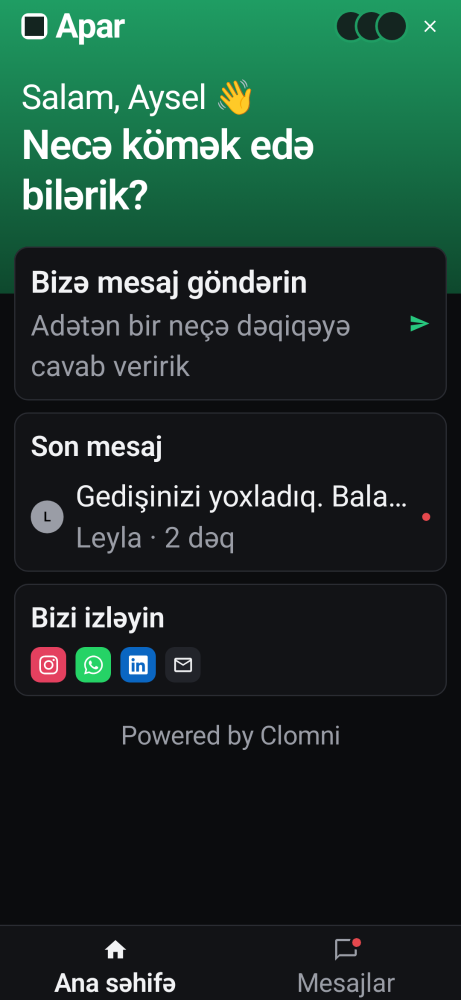
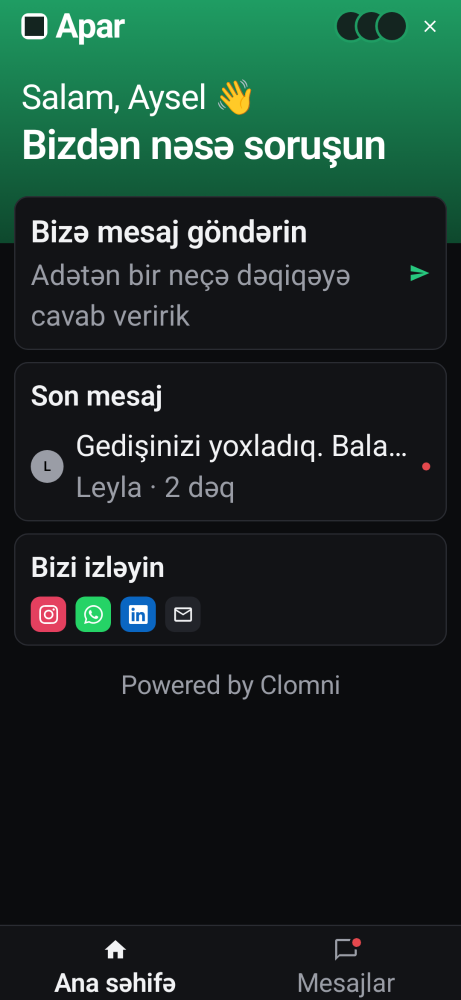
CM-077: Android tests on protocol fixtures 42/43; the contract's JSON goes
Fixture.aparConfig is now the server's fixture 42, as on iOS, and
ConfigV2Fixture (the contract's example copied by hand) is deleted.
Expectations follow the server's data: its own picture URLs, no bot
picture (the logo stands in), the panel's "Bizdən nəsə soruşun"; the
Russian empty list is the SDK's own text, since 42's strings are the
Azerbaijani set. The snapshot test draws 42's logo and team pictures;
references and docs copies re-recorded.

Changed region(s): [[0.0, 0.124, 1.0, 0.744], [0.9111, 0.465, 0.9414, 0.527], [0.8807, 0.31, 0.9414, 0.341]]

diff --git a/android/messenger/src/test/kotlin/ai/clomni/messenger/protocol/MessengerConfigTest.kt b/android/messenger/src/test/kotlin/ai/clomni/messenger/protocol/MessengerConfigTest.kt
@@ -1,6 +1,5 @@
 package ai.clomni.messenger.protocol
 
-import ai.clomni.messenger.presentation.APAR_CONFIG_V2
 import org.junit.Assert.assertEquals
 import org.junit.Assert.assertFalse
 import org.junit.Assert.assertNull
@@ -13,14 +12,17 @@ class MessengerConfigTest {
 
     private fun config(json: String): MessengerConfig = protocol.json.parseConfig(json)!!
 
+    private val apar = ProtocolFiles.read("fixtures/42-config-apar.json")
+
+    /** The server's config v2 for Apar (protocol fixture 42), its colours taken as sent. */
     @Test
-    fun theContractsExample() {
-        val config = config(APAR_CONFIG_V2)
+    fun theServersAparConfig() {
+        val config = config(apar)
         assertEquals(12, config.version)
         assertEquals(
             MessengerConfig.Brand(
                 name = "Apar",
-                logoUrl = "https://app.clomni.ai/a/apar.png",
+                logoUrl = "https://app.clomni.ai/v1/images/img_Lq3T8vXw2KpA9mZc4RbN",
                 logoDarkUrl = null,
                 primaryColor = "#1F9D63",
                 headerStyle = MessengerConfig.HeaderStyle.GRADIENT,
@@ -36,14 +38,14 @@ class MessengerConfigTest {
         assertEquals(
             MessengerConfig.Team(
                 show = true,
-                avatars = listOf("https://app.clomni.ai/a/leyla.png", "https://app.clomni.ai/a/rauf.png", "https://app.clomni.ai/a/nigar.png"),
+                avatars = listOf("leyla", "rauf", "nigar").map { "https://my.clomni.co/rails/active_storage/representations/redirect/$it.png" },
                 replyTime = "Adətən bir neçə dəqiqəyə cavab veririk",
                 replyTimeOffline = "Hazırda iş saatı deyil, sizə səhər cavab verəcəyik",
                 officeHours = MessengerConfig.OfficeHours("Asia/Baku", openNow = true),
             ),
             config.team,
         )
-        assertEquals(MessengerConfig.Bot("Clomni", "https://app.clomni.ai/a/bot.png"), config.bot)
+        assertEquals("no bot picture: the SDK shows the logo", MessengerConfig.Bot("Clomni", null), config.bot)
         assertEquals(
             listOf(MessengerConfig.HomeCard.SEND, MessengerConfig.HomeCard.RECENT, MessengerConfig.HomeCard.CHANNELS),
             config.home.cards,
@@ -58,6 +60,7 @@ class MessengerConfigTest {
         )
         assertEquals(MessengerConfig.Composer(attachments = true, emoji = true), config.composer)
         assertEquals("Salam, {first_name} 👋", config.strings["greeting_line1"])
+        assertEquals("the panel's own", "Bizdən nəsə soruşun", config.strings["greeting_line2"])
         assertEquals(MessengerConfig.Limits(10, 25, 4000), config.limits)
         assertTrue(config.poweredBy)
         assertTrue(protocol.warnings.isEmpty())
@@ -102,11 +105,11 @@ class MessengerConfigTest {
         val missing = config("""{"brand":{"colors":{"light":{"primary":"#1F9D63"}}}}""")
         assertNull(missing.brand.colors)
         assertEquals("brand.colors incomplete; the SDK derives the colours", protocol.warnings.last())
-        val notHex = APAR_CONFIG_V2.replace("\"#0E482D\"", "\"dark green\"")
+        val notHex = apar.replace("\"#0E482D\"", "\"dark green\"")
         assertNull(config(notHex).brand.colors)
         assertNull(config("""{"brand":{}}""").brand.colors)
         // header_text came later: a server without it still sends usable colours, and the SDK works the text out.
-        val withoutText = config(APAR_CONFIG_V2.replace(", \"header_text\": \"#FFFFFF\"", ""))
+        val withoutText = config(apar.replace(Regex(""",\s*"header_text": "#FFFFFF""""), ""))
         assertEquals("#1F9D63", withoutText.brand.colors?.light?.headerFrom)
         assertNull(withoutText.brand.colors?.light?.headerText)
     }
@@ -125,21 +128,6 @@ class MessengerConfigTest {
         assertFalse(config.theme.launcher.enabled)
         assertEquals(listOf("az"), config.languages)
         assertTrue(config.poweredBy)
-    }
-
-    /** The server's own config v2 (protocol fixture 42): its colours are taken as sent. */
-    @Test
-    fun theServersAparConfig() {
-        val apar = protocol.json.parseConfig(ProtocolFiles.read("fixtures/42-config-apar.json"))!!
-        assertEquals("Apar", apar.brand.name)
-        assertEquals("#177248", apar.brand.colors?.light?.headerTo)
-        assertEquals("#27C87E", apar.brand.colors?.dark?.primary)
-        assertFalse(apar.theme.launcher.enabled)
-        assertEquals(
-            listOf(MessengerConfig.HomeCard.SEND, MessengerConfig.HomeCard.RECENT, MessengerConfig.HomeCard.CHANNELS),
-            apar.home.cards,
-        )
-        assertTrue(protocol.warnings.isEmpty())
     }
 
     @Test

diff --git a/android/messenger/src/test/kotlin/ai/clomni/messenger/presentation/PresenterTest.kt b/android/messenger/src/test/kotlin/ai/clomni/messenger/presentation/PresenterTest.kt
@@ -21,7 +21,7 @@ import java.util.TimeZone
 internal object Fixture {
     private val protocol = ProtocolJson()
 
-    val aparConfig: MessengerConfig get() = protocol.parseConfig(APAR_CONFIG_V2)!!
+    val aparConfig: MessengerConfig get() = protocol.parseConfig(ProtocolFiles.read("fixtures/42-config-apar.json"))!!
     val minimalConfig: MessengerConfig get() = protocol.parseConfig(ProtocolFiles.read("fixtures/43-config-minimal.json"))!!
 
     /** A conversation whose last message is the fixture [message] (created at 2026-10-01T10:30Z, or [at]). */
@@ -68,10 +68,10 @@ class PresenterTest {
         val header = presenter().home(snapshot()).header
         assertEquals("Apar", header.brandName)
         assertEquals("A", header.brandInitial)
-        assertEquals("https://app.clomni.ai/a/apar.png", header.logoUrl)
+        assertEquals("https://app.clomni.ai/v1/images/img_Lq3T8vXw2KpA9mZc4RbN", header.logoUrl)
         assertEquals(3, header.teamAvatars.size)
         assertEquals("Salam, Aysel 👋", header.greeting)
-        assertEquals("Necə kömək edə bilərik?", header.title)
+        assertEquals("the panel's line", "Bizdən nəsə soruşun", header.title)
         assertEquals("Bağla", header.closeLabel)
 
         assertEquals("Salam 👋", presenter().home(snapshot(user = null)).header.greeting)
@@ -163,7 +163,7 @@ class PresenterTest {
     @Test
     fun theBotsPictureIsThePanels() {
         val bot = listOf(Fixture.conversation("conv_1", "01-text-bot.json"))
-        val panel = ProtocolJson().parseConfig(APAR_CONFIG_V2.replace("https://app.clomni.ai/a/bot.png", "https://app.clomni.ai/v1/images/bot"))!!
+        val panel = Fixture.aparConfig.let { it.copy(bot = it.bot.copy(avatarUrl = "https://app.clomni.ai/v1/images/bot")) }
         assertEquals("https://app.clomni.ai/v1/images/bot", presenter(config = panel).home(snapshot(panel, bot)).recent?.row?.avatarUrl)
         val none = ProtocolJson().parseConfig("""{"brand":{"name":"Apar","logo_url":"https://app.clomni.ai/v1/images/logo"}}""")!!
         assertEquals("the message's own", "https://app.clomni.ai/a/bot.png", presenter(config = none).home(snapshot(none, bot)).recent?.row?.avatarUrl)
@@ -288,7 +288,8 @@ class PresenterTest {
 
         val stale = snapshot(Fixture.aparConfig, list).copy(conversationsLoad = MessengerSnapshot.Load.FAILED)
         assertEquals("the cached list stays", HomeScreen.Phase.READY, presenter().messages(stale).phase)
-        assertEquals("Пока нет переписки", presenter("ru").messages(snapshot(Fixture.aparConfig, emptyList())).empty)
+        // The SDK's own Russian (fixture 42's texts are the Azerbaijani set the server sent).
+        assertEquals("Пока нет переписки", presenter("ru", config = null).messages(snapshot(Fixture.aparConfig, emptyList())).empty)
     }
 
     @Test

diff --git a/android/messenger/src/test/kotlin/ai/clomni/messenger/ui/AppearanceSnapshotTest.kt b/android/messenger/src/test/kotlin/ai/clomni/messenger/ui/AppearanceSnapshotTest.kt
@@ -200,13 +200,18 @@ class AppearanceSnapshotTest {
         const val LEYLA = "https://app.clomni.ai/a/leyla.png"
         const val RAUF = "https://app.clomni.ai/a/rauf.png"
         const val NIGAR = "https://app.clomni.ai/a/nigar.png"
+        const val FIXTURE_TEAM = "https://my.clomni.co/rails/active_storage/representations/redirect"
         val BLUE = ai.clomni.messenger.presentation.RgbColor.parse("#0A66C2")
 
         /** Stand-ins for the panel's uploads: a logo mark, its dark-mode version, faces, a bot, a landscape. */
         val pictures: Map<String, ImageBitmap> by lazy {
             mapOf(
                 LOGO to mark(0xFF1F9D63.toInt(), 0xFFFFFFFF.toInt(), "A"),
-                "https://app.clomni.ai/a/apar.png" to mark(0xFF1F9D63.toInt(), 0xFFFFFFFF.toInt(), "A"),
+                // Protocol fixture 42's own pictures.
+                "https://app.clomni.ai/v1/images/img_Lq3T8vXw2KpA9mZc4RbN" to mark(0xFF1F9D63.toInt(), 0xFFFFFFFF.toInt(), "A"),
+                "$FIXTURE_TEAM/leyla.png" to face(0xFFC2410C.toInt(), "L"),
+                "$FIXTURE_TEAM/rauf.png" to face(0xFF7C3AED.toInt(), "R"),
+                "$FIXTURE_TEAM/nigar.png" to face(0xFF0E7490.toInt(), "N"),
                 LOGO_DARK to mark(0xFF0B0C0E.toInt(), 0xFF34B57A.toInt(), "A"),
                 BOT to bot(),
                 "https://app.clomni.ai/a/bot.png" to bot(),

diff --git a/android/messenger/src/test/kotlin/ai/clomni/messenger/ui/AccessibilitySnapshotTest.kt b/android/messenger/src/test/kotlin/ai/clomni/messenger/ui/AccessibilitySnapshotTest.kt
@@ -135,7 +135,7 @@ class AccessibilitySnapshotTest {
             listOf(
                 "Apar",
                 "Bağla [Button]",
-                "Salam, Aysel 👋 Necə kömək edə bilərik? [heading]",
+                "Salam, Aysel 👋 Bizdən nəsə soruşun [heading]",
                 "Bizə mesaj göndərin. Adətən bir neçə dəqiqəyə cavab veririk [Button]",
                 "Son mesaj. Leyla, 2 dəq: Gedişinizi yoxladıq. Balansınıza 2 AZN qaytarıldı. Ətraflı: şərtlər. Oxunmamış [Button]",
                 "Bizi izləyin [heading]",
